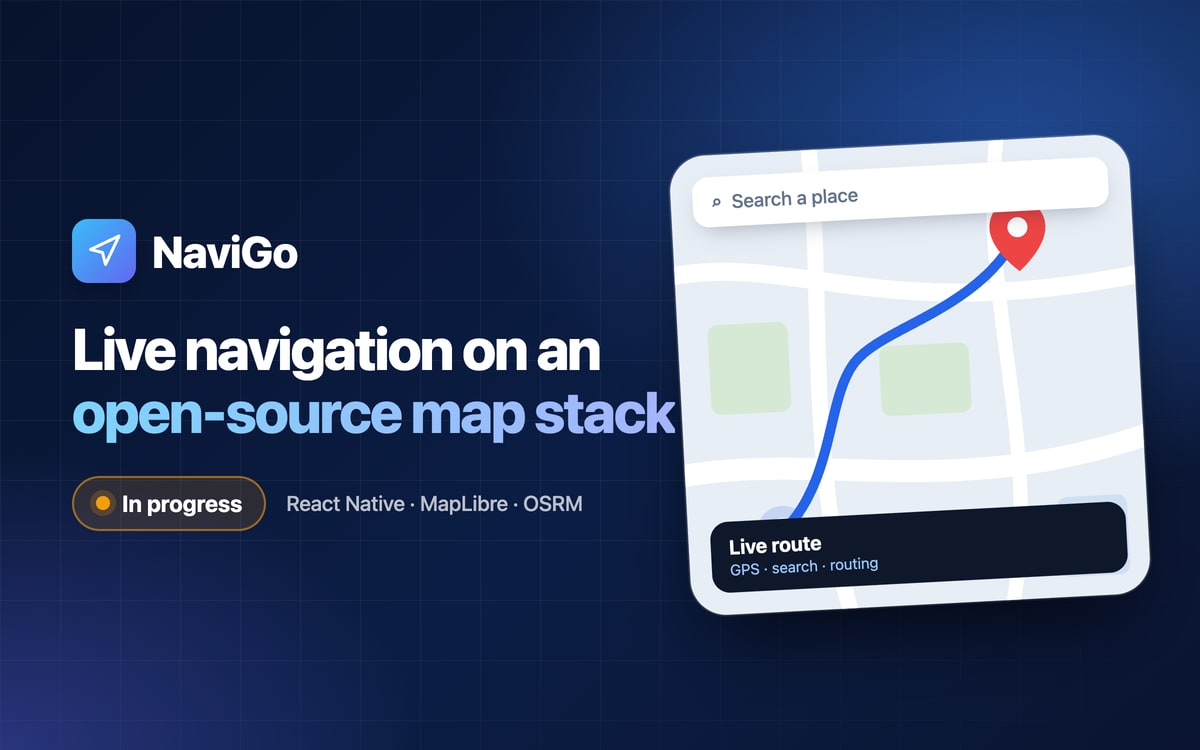
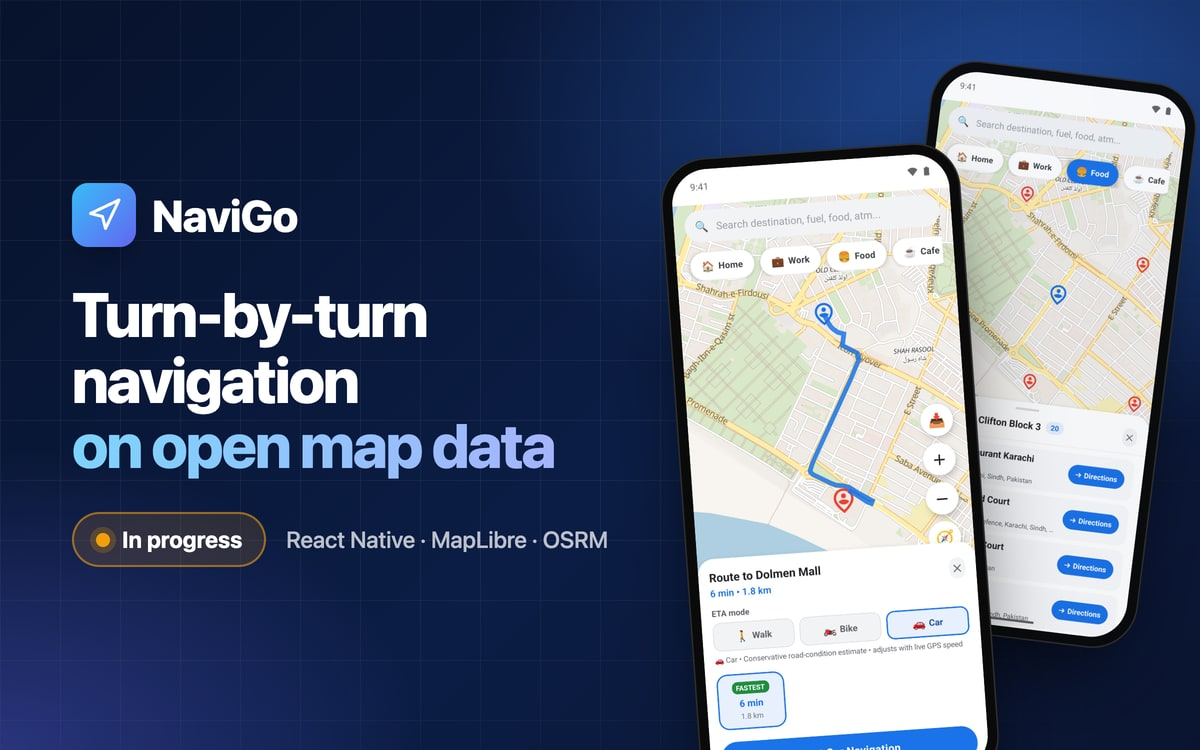
Add NaviGo screenshots, case study and cover
Seven screens from a release build (map, search, results, nearby places,
route preview, turn-by-turn navigation, offline maps), the case study
filled from the app's own fact sheet, and a phone-mockup cover banner.

diff --git a/src/data/projects.js b/src/data/projects.js
@@ -269,27 +269,68 @@ const projectRecords = [
     order: 4,
     title: "NaviGo - Navigation App",
     status: "In Progress",
-    categoryLabel: "Mobile App",
+    categoryLabel: "Mobile App · Open Map Data",
     description:
-      "A Google Maps-style navigation app with live GPS tracking, place search and real-time routing, built on an open-source map stack instead of Google Maps.",
-    // Card cover only for now; screenshots and fuller details to follow.
+      "NaviGo is a React Native turn-by-turn navigation app built only on open map data: MapLibre vector maps, Photon/Nominatim search, Overpass nearby places and OSRM routing, with no paid map APIs or keys. It shows how much of a Google Maps-style experience (live GPS tracking, route alternatives, voice guidance, rerouting and offline map packs) can be built on free OpenStreetMap services.",
     image: "/images/projects/navigo/cover.jpg",
-    categories: ["All", "Mobile Apps", "UI"],
-    stack: ["React Native CLI", "TypeScript", "MapLibre", "OSRM"],
-    features: [
-      "Live GPS tracking of the user's position on the map",
-      "Place search to find a destination",
-      "Real-time routing from the current location to the chosen place",
-      "Open-source map stack: MapLibre renders the map and OSRM calculates routes",
+    // Captured from a release build on an Android emulator with fake GPS in Clifton, Karachi.
+    screenshots: [
+      { src: "/images/projects/navigo/01-map-home.jpg", device: "phone", label: "Live location on the map" },
+      { src: "/images/projects/navigo/02-search.jpg", device: "phone", label: "Instant place search" },
+      { src: "/images/projects/navigo/03-search-results.jpg", device: "phone", label: "Results with road distances" },
+      { src: "/images/projects/navigo/04-nearby-food.jpg", device: "phone", label: "Nearby places by category" },
+      { src: "/images/projects/navigo/05-route-preview.jpg", device: "phone", label: "Route preview with ETA" },
+      { src: "/images/projects/navigo/06-navigation.jpg", device: "phone", label: "Turn-by-turn live navigation" },
+      { src: "/images/projects/navigo/07-offline-maps.jpg", device: "phone", label: "Offline map downloads" },
     ],
-    stats: [],
+    categories: ["All", "Mobile Apps", "UI"],
+    stack: [
+      "React Native 0.86",
+      "TypeScript",
+      "MapLibre",
+      "OSRM",
+      "Photon",
+      "Nominatim",
+      "Overpass API",
+      "OpenFreeMap tiles",
+      "react-native-tts",
+      "AsyncStorage",
+      "Jest",
+      "GitHub Actions",
+    ],
+    features: [
+      "Live GPS location on a MapLibre vector map, with an accuracy circle and a follow / recenter camera",
+      "Place search with autocomplete from the first character, limited to 25 km around the user and showing driving distance for each result",
+      "One-tap nearby search across 11 categories (food, cafe, ATM, fuel, hospital, pharmacy, parking and more), with pins on the map, driving distance and directions for each place",
+      "Route preview with up to 3 OSRM alternatives and ETA for walking, motorbike or car",
+      "Turn-by-turn navigation with a 3D follow camera, next-turn card, remaining distance, ETA, speed and native voice prompts",
+      "Automatic rerouting after the user stays off the route long enough to confirm it",
+      "Offline map downloads for a 10 km area or a named city, with a coverage map and region manager",
+      "Saved Home and Work places, plus recent searches",
+    ],
+    stats: [
+      { label: "Tests", value: 130, suffix: "" },
+      { label: "Open map APIs", value: 5, suffix: "" },
+      { label: "Lines of TS", value: 17355, suffix: "" },
+    ],
     problem:
-      "Navigation apps usually depend on Google Maps and its paid APIs. NaviGo delivers the same core experience, tracking, search and turn-by-turn routes, on an open-source stack.",
+      "Turn-by-turn navigation usually depends on Google Maps or Mapbox, both of which need paid API keys. NaviGo shows that the full flow (search, nearby places, routing, live navigation and offline maps) can run on free OpenStreetMap services, with the reliability work that public endpoints need: timeouts, failover, caching and honest error states instead of invented data.",
     architecture:
-      "A React Native CLI app in TypeScript. MapLibre draws the map and the user's live GPS position, and OSRM returns the route between the current location and the searched place.",
-    challenges: [],
-    optimizations: [],
-    responsiveness: "",
+      "A single MapScreen holds the app state, with an Offline Maps modal. useLocation calls locationService (react-native-geolocation-service), which drops fixes that are inaccurate, out of order or impossibly far apart, then reverse-geocodes the area with Photon. SearchHeader sends typed queries through geocodingService and SearchRepository (Photon autocomplete, Nominatim fallback) and ranks results with one shared ranking model. Nearby chips query Overpass. OSRM's table API adds driving distances to both result lists. Choosing a place calls RoutingRepository, which sends the same request to two OSRM servers at once, uses whichever answers first and returns up to 3 alternatives. While navigating, useNavigation receives a GPS fix every second, smooths position, speed and bearing, snaps the marker to the route line (GeometricMapMatchingProvider), updates step progress, ETA and voice prompts, and asks ReroutingService whether to recalculate. MapLibre then draws the trimmed route line, the user marker and a throttled 3D follow camera.",
+    challenges: [
+      "Bad GPS fixes: the app rejects fixes worse than 100 m accuracy, out of order or faster than 60 m/s, but accepts a jump once it repeats 3 times in a row so a real relocation is not ignored forever (commit 26f73a9).",
+      "Stable rerouting: the app only recalculates when the user is more than 30 m (or 1.5x GPS accuracy) off the route for 3 fixes over 3 seconds, and waits 15 seconds between reroutes, so GPS noise does not trigger route requests.",
+      "Results based on real location: a hardcoded fallback city was silently used in place of a real GPS fix. It was replaced with an explicit 'no fix yet' state, and search was kept inside the user's GPS area (commits 7c7ad3b, 40156e9).",
+      "Three data providers, one place model: Photon, Nominatim and Overpass describe places differently, so place identity, categories from OSM tags and ranking were unified to remove duplicates and keep the order consistent (commits da0f59c, 9ac86a8).",
+    ],
+    optimizations: [
+      "Route requests go to two OSRM servers at once; the first good answer wins and the other request is cancelled.",
+      "GPS updates every 5 s normally and every 1 s only while navigating, with a 5 m distance filter, to save battery.",
+      "The navigation camera updates at most every 500 ms and skips moves under 2 m or turns under 5 degrees, which cuts down on tile reloads.",
+      "Requests use timeouts, AbortController cancellation and small bounded caches (nearby results 60 s, map tile cache 50 MB).",
+    ],
+    responsiveness:
+      "Android and iOS projects are both set up (Android minSdk 24, targetSdk 36). On Android the app needs precise foreground location and handles 'denied' and 'blocked' permission states. iOS uses only the 'When In Use' location permission. Layouts use react-native-safe-area-context, and an error boundary catches crashes. Only Android was run for these captures.",
     gitUrl: "https://github.com/Awais-Chandio/NaviGo",
     liveUrl: "",
     accent: "from-sky-300 via-blue-400 to-indigo-400",
